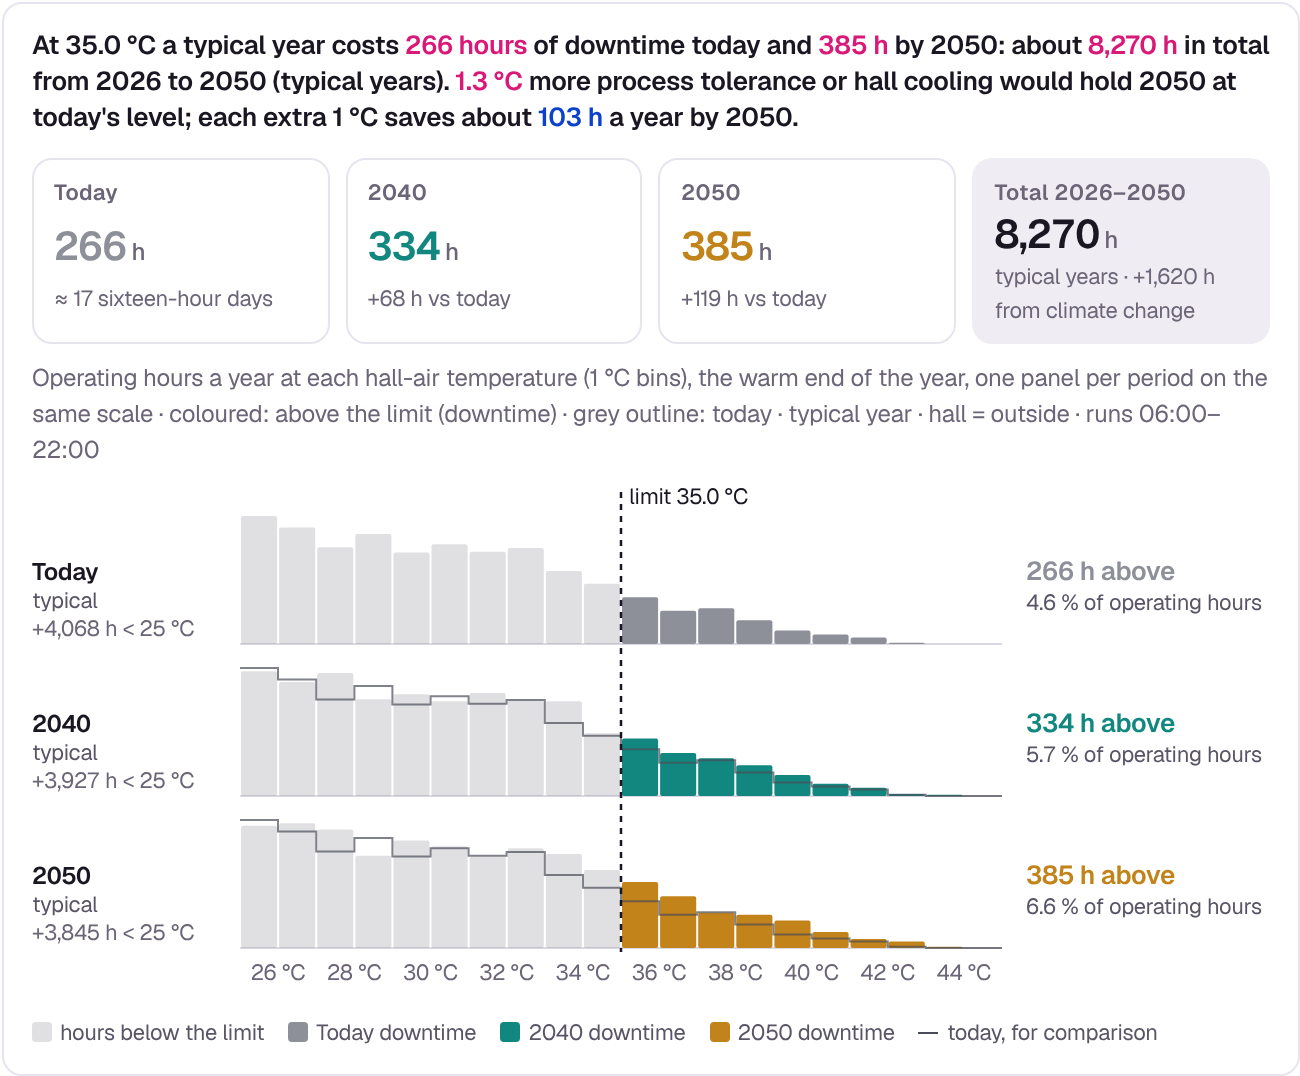
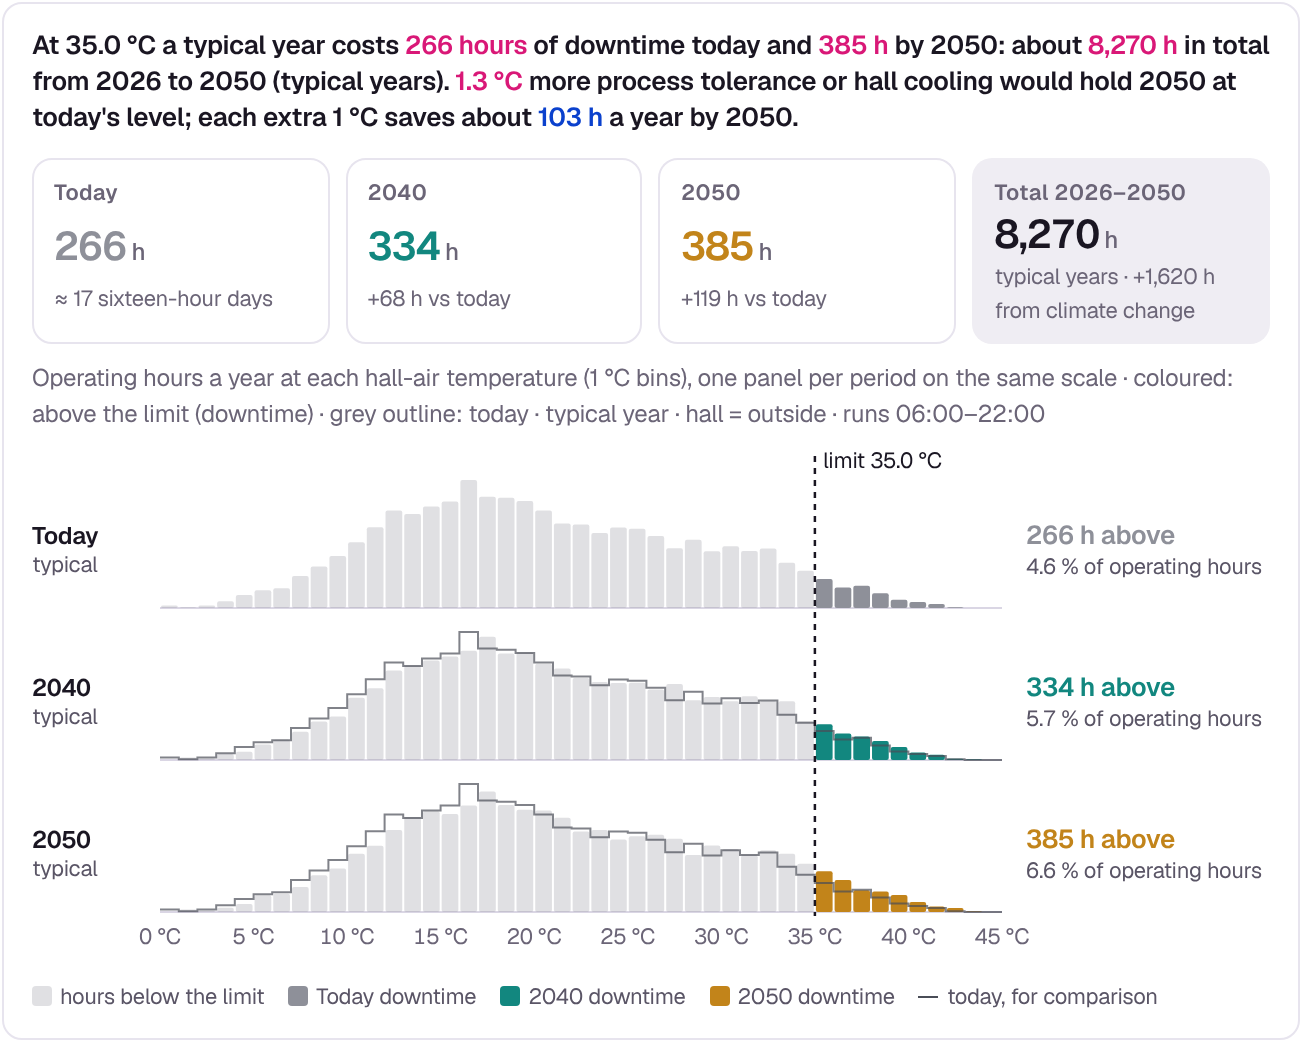
Process lens: whole-year histograms chosen for the downtime card; zoom kept as an option
Claude-Session: https://claude.ai/code/session_01UAW58aPu4kaeQs95jbumYH

diff --git a/docs/mockups/process_lens/process_lens.js b/docs/mockups/process_lens/process_lens.js
@@ -24,7 +24,7 @@ const PRESETS = {
   custom: { label: "Custom process", lim: null },
 };
 const qs = new URLSearchParams(location.search);
-const P = { on: qs.get("lens") !== "work", proc: "paint", lim: 35, run: qs.get("run") === "24" ? "24" : "op", alt: qs.get("alt") === "1", v: ["ladder", "bridge", "curve", "hist"].includes(qs.get("v")) ? qs.get("v") : "ladder" };
+const P = { on: qs.get("lens") !== "work", proc: "paint", lim: 35, run: qs.get("run") === "24" ? "24" : "op", alt: qs.get("alt") === "1", v: ["ladder", "bridge", "curve", "hist"].includes(qs.get("v")) ? qs.get("v") : "hist" };
 const thr = () => P.lim - Number(S.hall);
 const procName = () => P.proc === "custom" ? "custom limit" : PRESETS[P.proc].label;
 const runText = () => P.run === "op" ? `runs ${DATA.meta.operating_hours.start}–${DATA.meta.operating_hours.end}` : "runs 24 h";
@@ -220,7 +220,7 @@ function downtime() {
   const head = fAt < 0.5 ? `No downtime at ${limText()}, even in a ${c.per} ${c.ytn}: the hottest operating hour is <i>${fmt(c.f.st.mx, 1)} °C</i>.`
     : `At ${limText()} ${c.ytn === "extreme year" ? "an" : "a"} ${c.ytn} costs <b>${fmt(today)} hours</b> of downtime today and <b>${fmt(fAt)} h</b> by ${c.per}: about <b>${fmt(Math.round(c.cum / 10) * 10)} h</b> in total from 2026 to 2050 (typical years). ${c.eq != null ? `<b>${fmt(c.eq - P.lim, 1)} °C</b> more process tolerance or hall cooling would hold ${c.per} at today's level; ` : ""}each extra 1 °C saves about <i>${fmt(fAt - p1)} h</i> a year by ${c.per}.`;
   const vis = P.v === "bridge" ? bridge(c, W0) : P.v === "hist" ? hists(c, W0) : ladder(c, W0);
-  const sub = P.v === "hist" ? `Operating hours a year at each hall-air temperature (1 °C bins), the warm end of the year, one panel per period on the same scale · coloured: above the limit (downtime) · grey outline: today · ${c.ytn}` : P.v === "bridge" ? `How the ${c.per} downtime builds up from today, and what each extra °C of process tolerance or hall cooling buys back · ${c.ytn}`
+  const sub = P.v === "hist" ? `Operating hours a year at each hall-air temperature (1 °C bins)${qs.get("zoom") === "1" ? ", the warm end of the year" : ""}, one panel per period on the same scale · coloured: above the limit (downtime) · grey outline: today · ${c.ytn}` : P.v === "bridge" ? `How the ${c.per} downtime builds up from today, and what each extra °C of process tolerance or hall cooling buys back · ${c.ytn}`
     : `Downtime hours a year for limits around yours (1 °C steps) · dashed: today's downtime at your limit · ${c.ytn}`;
   return `<div class="sc"><div class="t">${head}</div>${dtStrip(c)}<div class="sub">${sub} · ${hallText()} · ${runText()}</div>${vis}</div>`;
 }
@@ -281,8 +281,8 @@ function bridge(c, W0) {
 
 /* Card 2 visual, option C: small-multiple histograms of operating-hour hall air, the tail above the limit coloured */
 function hists(c, W0) {
-  /* zoom (default): from 10 °C below the limit, so the tail is drawn large; ?zoom=0 shows the whole year */
-  const zoom = qs.get("zoom") !== "0", hall = Number(S.hall), lo = zoom ? -10 : Math.floor(Math.min(...c.ser.map(s => s.st.sorted[0] + hall)) - P.lim), hi = Math.ceil(Math.max(...c.ser.map(s => s.st.mx)) - P.lim) + 1;
+  /* whole year (chosen, v3); ?zoom=1 starts 10 °C below the limit so the tail is drawn larger */
+  const zoom = qs.get("zoom") === "1", hall = Number(S.hall), lo = zoom ? -10 : Math.floor(Math.min(...c.ser.map(s => s.st.sorted[0] + hall)) - P.lim), hi = Math.ceil(Math.max(...c.ser.map(s => s.st.mx)) - P.lim) + 1;
   const edges = []; for (let k = lo; k <= hi; k++) edges.push(P.lim + k);
   const counts = c.ser.map(s => edges.slice(0, -1).map((e, i) => above(s.st, e) - above(s.st, edges[i + 1])));
   const mxC = Math.max(1, ...counts.flat()), lw = zoom ? 104 : 64, rw = 132, rh = 64, gap = 12, top = 18, nb = edges.length - 1;

diff --git a/docs/process_lens_plan.md b/docs/process_lens_plan.md
@@ -11,8 +11,9 @@ Renders: `docs/mockups/process_lens/` (built on the current dashboard, D61–D65
 | `03_summary_bridge_sevilla.png` | Summary tab, downtime card drawn as a downtime bridge (recommended) |
 | `04_summary_ladder_toulouse_extreme.png` | Ladder at a temperate site, Year = Extreme |
 | `06_summary_bridge_toulouse_extreme.png` | Bridge at a temperate site, Year = Extreme |
-| `07_summary_hist_sevilla.png` | Downtime card drawn as tail histograms (recommended, v3) |
-| `08_summary_hist_toulouse_extreme.png` | Tail histograms at a temperate site, Year = Extreme |
+| `07_summary_hist_sevilla.png` | **Chosen:** downtime card drawn as histograms with the limit line, whole year |
+| `08_summary_hist_toulouse_extreme.png` | The same at a temperate site, Year = Extreme |
+| `09_summary_hist_zoom_sevilla.png` | Zoomed variant (warm end only), for reference |
 | `05_worker_lens_unchanged.png` | Worker lens after the toggle is added: unchanged apart from the toggle |
 
 ## 1. Controls
@@ -32,7 +33,7 @@ Renders: `docs/mockups/process_lens/` (built on the current dashboard, D61–D65
 | KPI tile 2 | Working time over the safe limit | **Process downtime**, hours a year summed over sites, % change vs today |
 | Map "Colour by" | Worker days, days > 30 °C, WBGT degree-hours, extra days > 30 °C, warming | **Downtime hours** (default), **extra downtime hours vs today**, process-stop days, days > 30 °C, warming |
 | Summary card 1 | Working hours above WBGT ref by shift, nine years | **Downtime hours by shift, nine years**. Headline in hours: typical / hot / extreme, today vs future, late-shift share. Stop days drop to the sub-line. Same chart, same footnote |
-| Summary card 2 | Climate here (UTCI bands) | **Downtime card**: callout strip + tail histograms (section 3) |
+| Summary card 2 | Climate here (UTCI bands) | **Downtime card**: callout strip + histograms with the limit line (section 3, chosen) |
 | Summary card 3 | Thermal comfort shift (UTCI) | **When the limit is exceeded, month × hour** (section 3) |
 | Indicators | Dot timeline, worker / heat / heatwave / comfort groups | Process group replaces the worker group: stop days, operating hours above, longest run, degree-hours above the limit, 1 % design temperature, hottest operating hour. Heat, heatwave and energy groups unchanged |
 | Temperature | Distribution, warming fingerprint, monthly Tmax | Unchanged, plus the limit as a vertical line on the temperature distribution |
@@ -50,7 +51,7 @@ The two UTCI cards answer "how comfortable is it here", which has no meaning for
 1. **Headline** in hours. Sevilla, 35 °C, typical: *a typical year costs 266 hours of downtime today and 385 h by 2050: about 8,270 h in total from 2026 to 2050. 1.3 °C more process tolerance or hall cooling would hold 2050 at today's level; each extra 1 °C saves about 103 h a year by 2050.*
 2. **Callout strip**: downtime a year today / 2040 / 2050 in the year colours, and a darker tile with the **2026–2050 total**. The total always uses typical years: adding up 25 extreme years is not a scenario. Years between the reference points are interpolated linearly (today = 2020, then 2040, then 2050). This is the number a revenue figure will multiply later.
 3. **Visual**, replacing the exceedance curve. Three drawings of the same data (mock-up `?v=hist|bridge|ladder`):
-   - **Tail histograms (recommended, v3).** One histogram per period (today, 2040, 2050 for the View bar Year), same scale, 1 °C bins aligned to the limit, from 10 °C below the limit upwards; hours below that are counted in the row label. Bars above the limit are the downtime, in the year colour; the rest is grey; today's shape is drawn as an outline in the future rows; the right-hand label gives hours above and the share of operating hours. It shows *why* downtime grows (the warm end of the year moves right across a fixed line) and makes extra tolerance easy to picture (move the line right). Overlaid histograms were rejected: three distributions tangle exactly at the tail. The whole-year version (`?zoom=0`) was drawn too; the tail is then a sliver and the change hard to see.
+   - **Histograms with the limit line (chosen with the consultant, v3).** One histogram per period (today, 2040, 2050 for the View bar Year), same scale, 1 °C bins aligned to the limit, whole year of operating hours. Bars above the limit are the downtime, in the year colour; the rest is grey; today's shape is drawn as an outline in the future rows; the right-hand label gives hours above and the share of operating hours. It shows *why* downtime grows (the warm end of the year moves right across a fixed line) and makes extra tolerance easy to picture (move the line right). Overlaid histograms were rejected: three distributions tangle exactly at the tail. A zoomed variant (`?zoom=1`, from 10 °C below the limit, hours below counted in the row label) draws the tail larger; kept as an option if the change reads too small at temperate sites.
    - **Downtime bridge.** Waterfall: today → added by climate to 2040 → added to 2050 → 2050 total → hours bought back by +1, +2, +3 °C of tolerance or cooling → 2050 with +3 °C. It reads as a ledger of hours: what climate change adds, and what each degree of engineering buys back. That is the shape a revenue or cost-benefit view takes later (hours × €/h on each step), so it is kept for when € is added, as a cost-benefit card or an Indicators section.
    - **Limit ladder (alternative).** Grouped columns of downtime for limits from 3 °C below to 3 °C above yours (today, 2040, 2050 per limit), your limit shaded, today's downtime as a dashed line and a marker where 2050 falls back to it ("36.3 °C restores today's downtime"). Closer to the engineering question "what if the spec were different", but less direct as a ledger.
    - The v1 curve stays in the mock-up behind `?v=curve` for comparison only.
